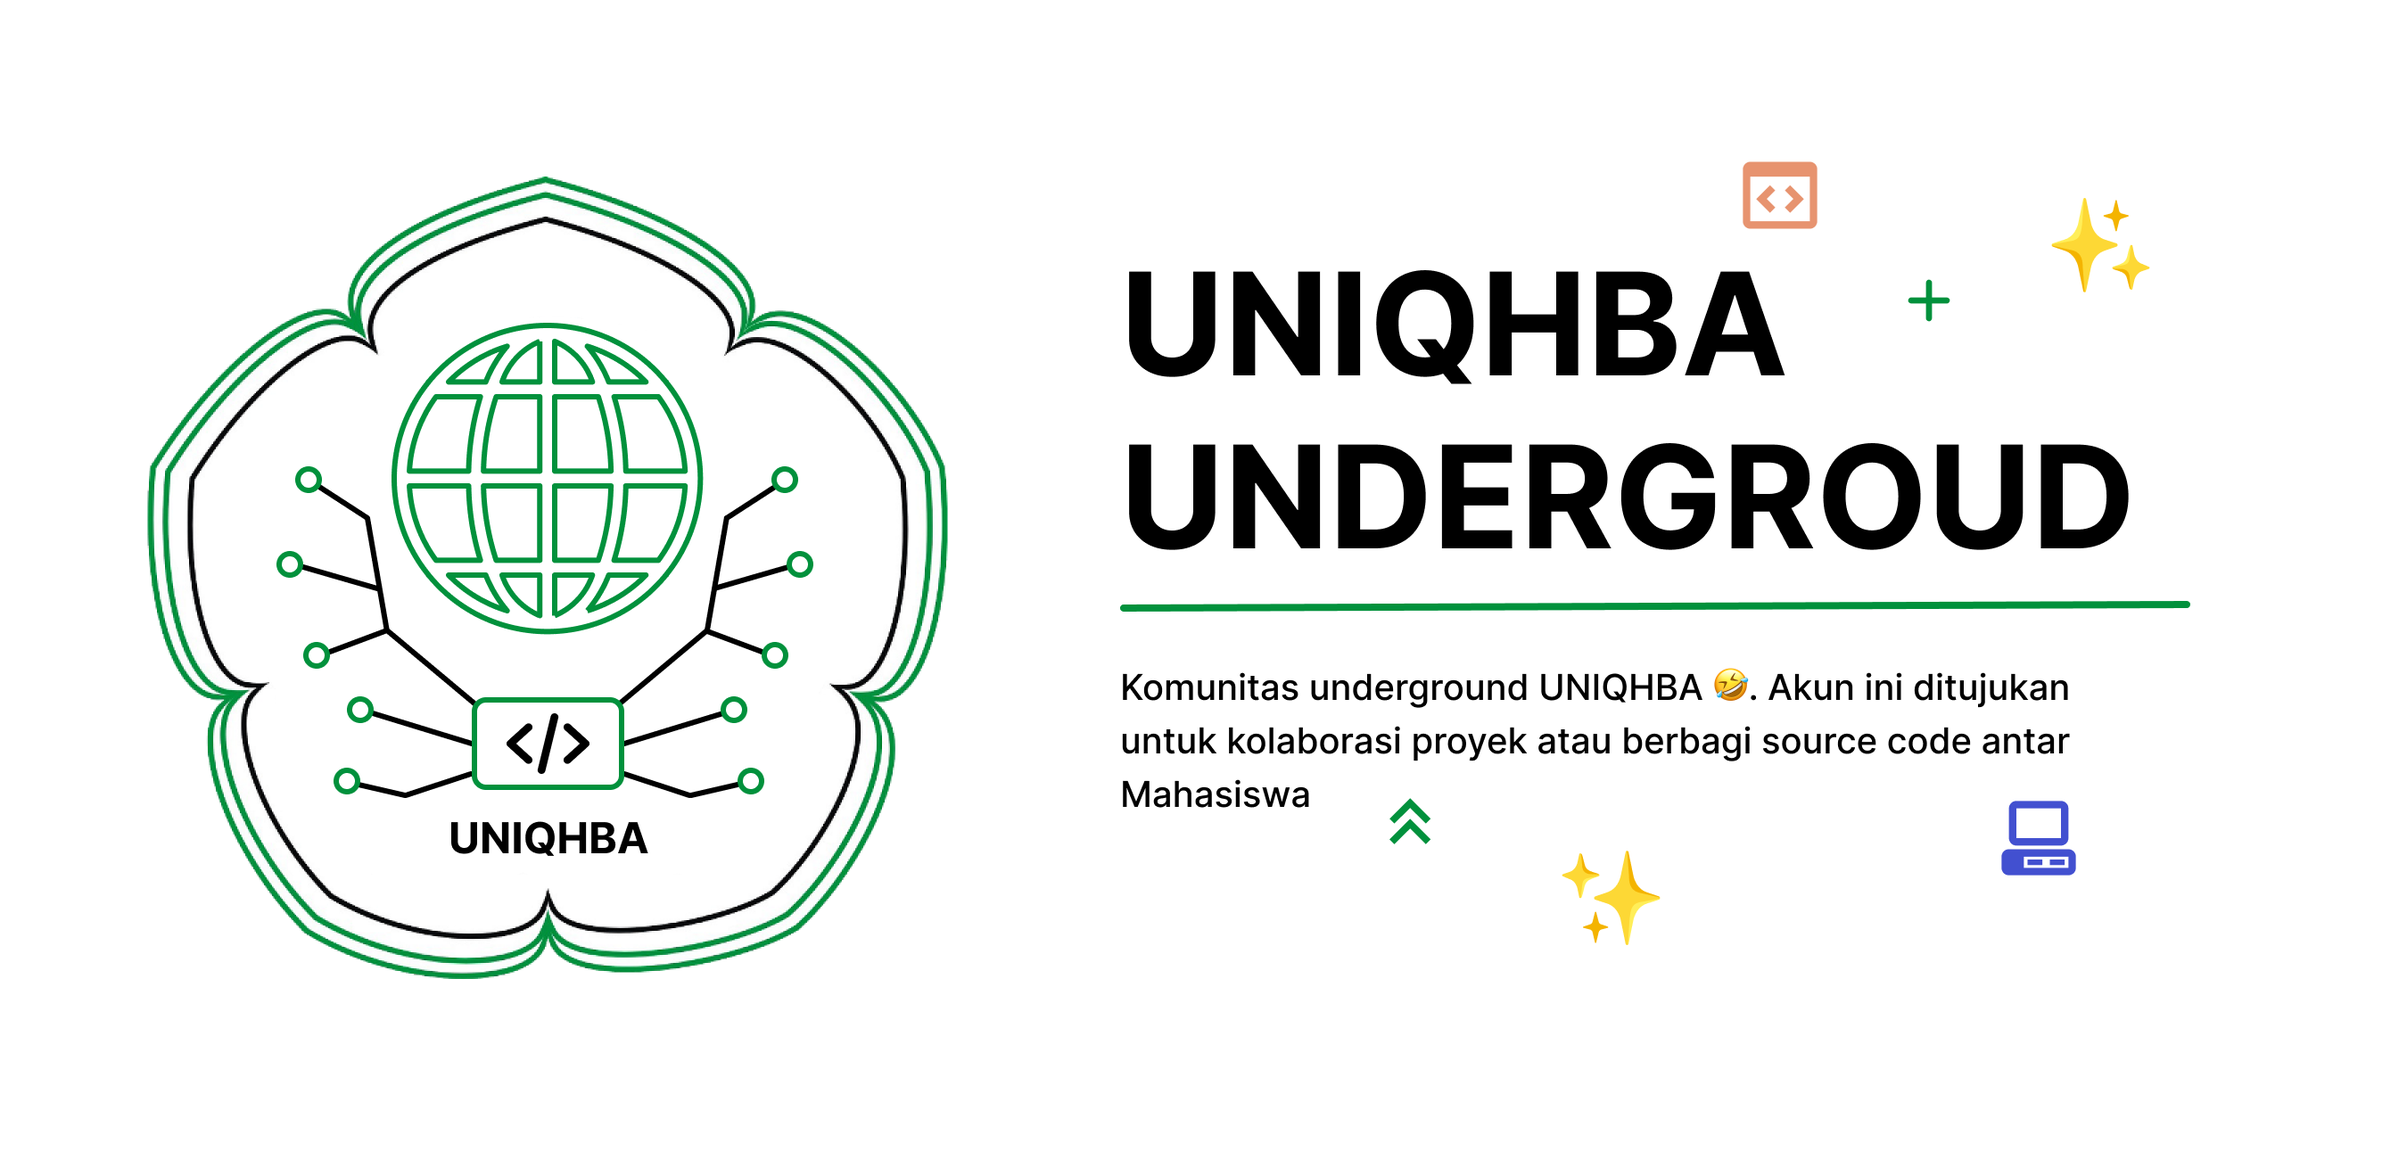
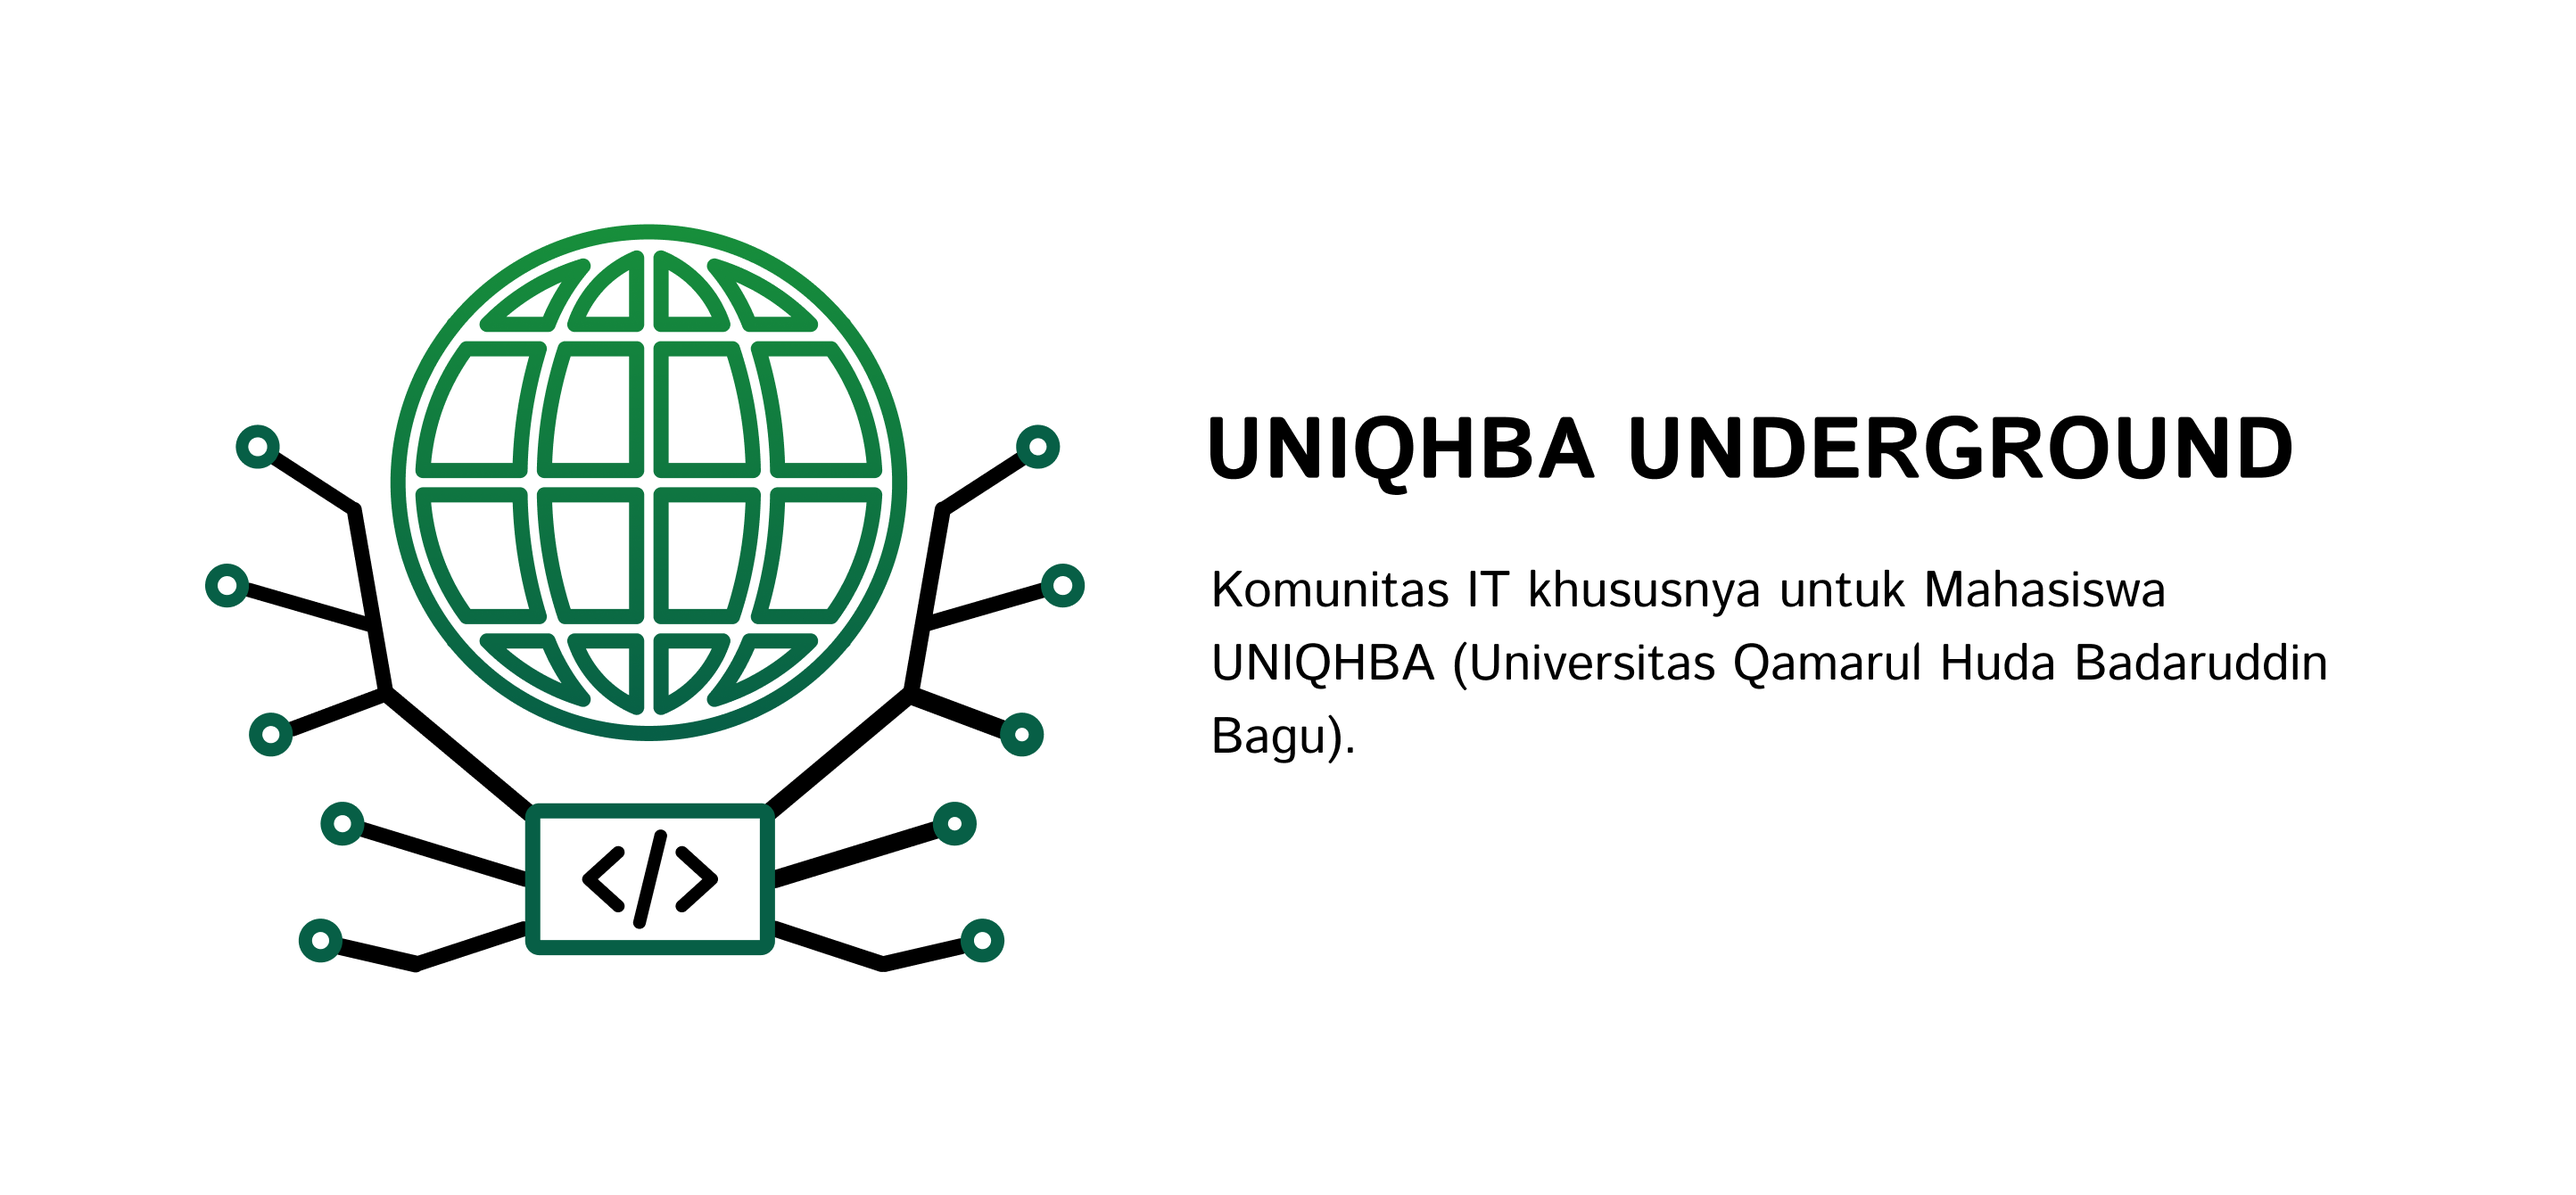
[chore] update README.md

diff --git a/README.md b/README.md
@@ -1,3 +1,3 @@
-## Komunitas Underground UNIQHBA
+## Komunitas IT UNIQHBA
 
 ![UNIQHBA Underground](./img/cover.png "UNIQHBA Underground")
